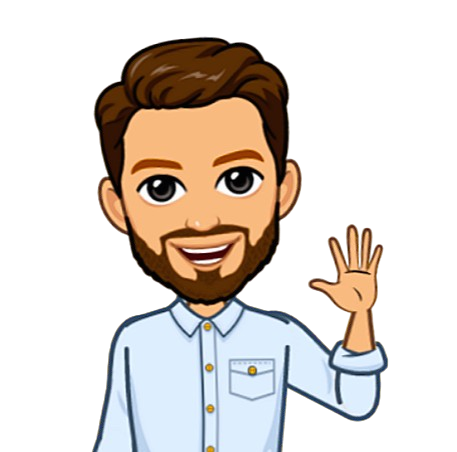
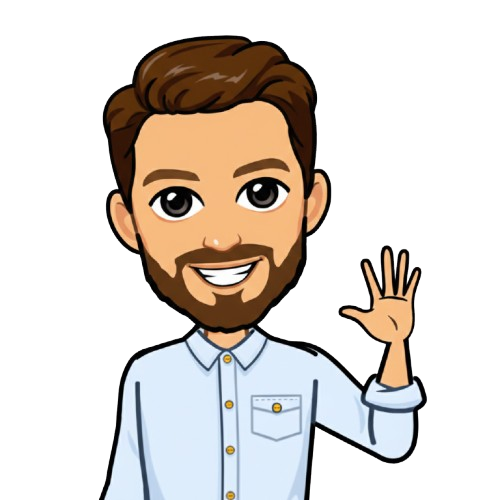
code fix

Changed region(s): [[0.1838, 0.0619, 0.8578, 1.0], [0.4289, 0.9602, 0.4902, 1.0], [0.4289, 0.8982, 0.4902, 0.9292]]

diff --git a/experience/index.html b/experience/index.html
@@ -165,7 +165,7 @@
           <a href="/#about"><i class="fas fa-chevron-circle-right"></i> about</a>
           <a href="/#skills"><i class="fas fa-chevron-circle-right"></i> skills</a>
           <a href="/#education"><i class="fas fa-chevron-circle-right"></i> education</a>
-          <a href="/#work"><i class="fas fa-chevron-circle-right"></i> work</a>
+          <!-- <a href="/#work"><i class="fas fa-chevron-circle-right"></i> work</a> -->
           <a href="/#experience"><i class="fas fa-chevron-circle-right"></i> experience</a>
       </div>
 

diff --git a/index.html b/index.html
@@ -366,7 +366,7 @@
           <a href="#about"><i class="fas fa-chevron-circle-right"></i> about</a>
           <a href="#skills"><i class="fas fa-chevron-circle-right"></i> skills</a>
           <a href="#education"><i class="fas fa-chevron-circle-right"></i> education</a>
-          <a href="#work"><i class="fas fa-chevron-circle-right"></i> work</a>
+          <!-- <a href="#work"><i class="fas fa-chevron-circle-right"></i> work</a> -->
           <a href="#experience"><i class="fas fa-chevron-circle-right"></i> experience</a>
       </div>
 

diff --git a/assets/css/style.css b/assets/css/style.css
@@ -102,7 +102,7 @@ header .logo {
   gap: 0.5rem;
 }
 header .logo img {
-  height: 2rem;
+  height: 5.5rem;
   width: auto;
 }
 header .logo i {
